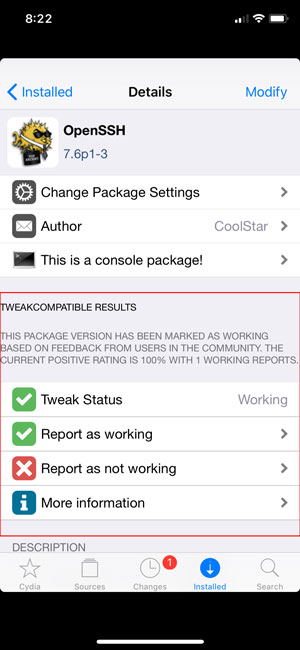
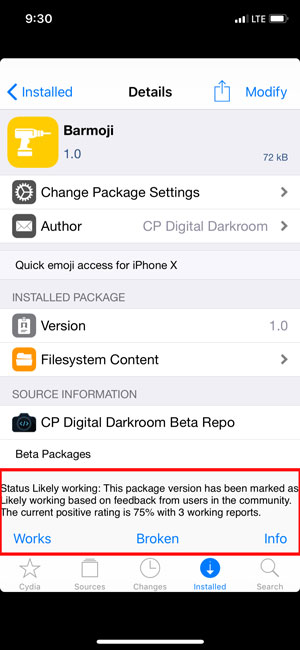
updates readme and screenshot

diff --git a/README.md b/README.md
@@ -6,6 +6,7 @@ Previously when a new jailbreak was released, the community manages a large goog
 
 ![Screenshot](docs/screenshot1.jpg?raw=true "Screenshot1")
 ![Screenshot](docs/screenshot2.jpg?raw=true "Screenshot2")
+![Screenshot](docs/screenshot3.jpg?raw=true "Screenshot2")
 
 In the spirit of open source and to give back, I spent some time writing this tweak for Cydia that adds a section with compatibility results into the package details page.
 
@@ -13,7 +14,7 @@ Users can also go to the frontend website @ https://jlippold.github.io/tweakComp
 
 ## Submissions
 
-In order to submit whether a tweak works with an iOS version, you need to submit a review via Cydia. If you click the `Report as Working` button, you will be redirected to github issues with a pre-populated issue created. A github account is required to submit reviews.
+In order to submit whether a tweak works with an iOS version, you need to submit a review via Cydia. If you click the `Working` button at the bottom of the package details page, you will be redirected to github issues with a pre-populated issue created. A github account is required to submit reviews.
 
 Every hour, I pull any open issues, update `docs/tweaks.json`, and close the ticket. This is done by cron.
 
